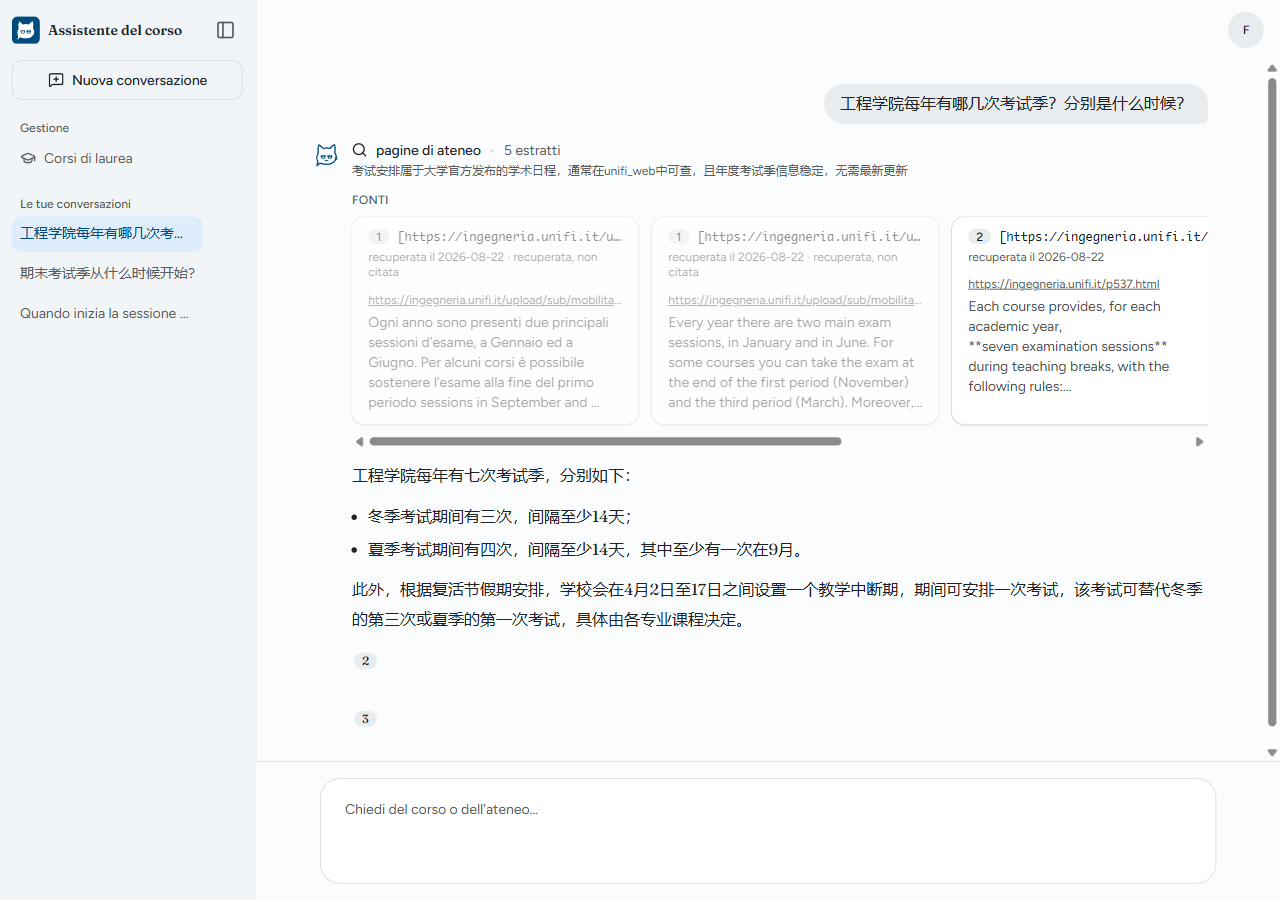
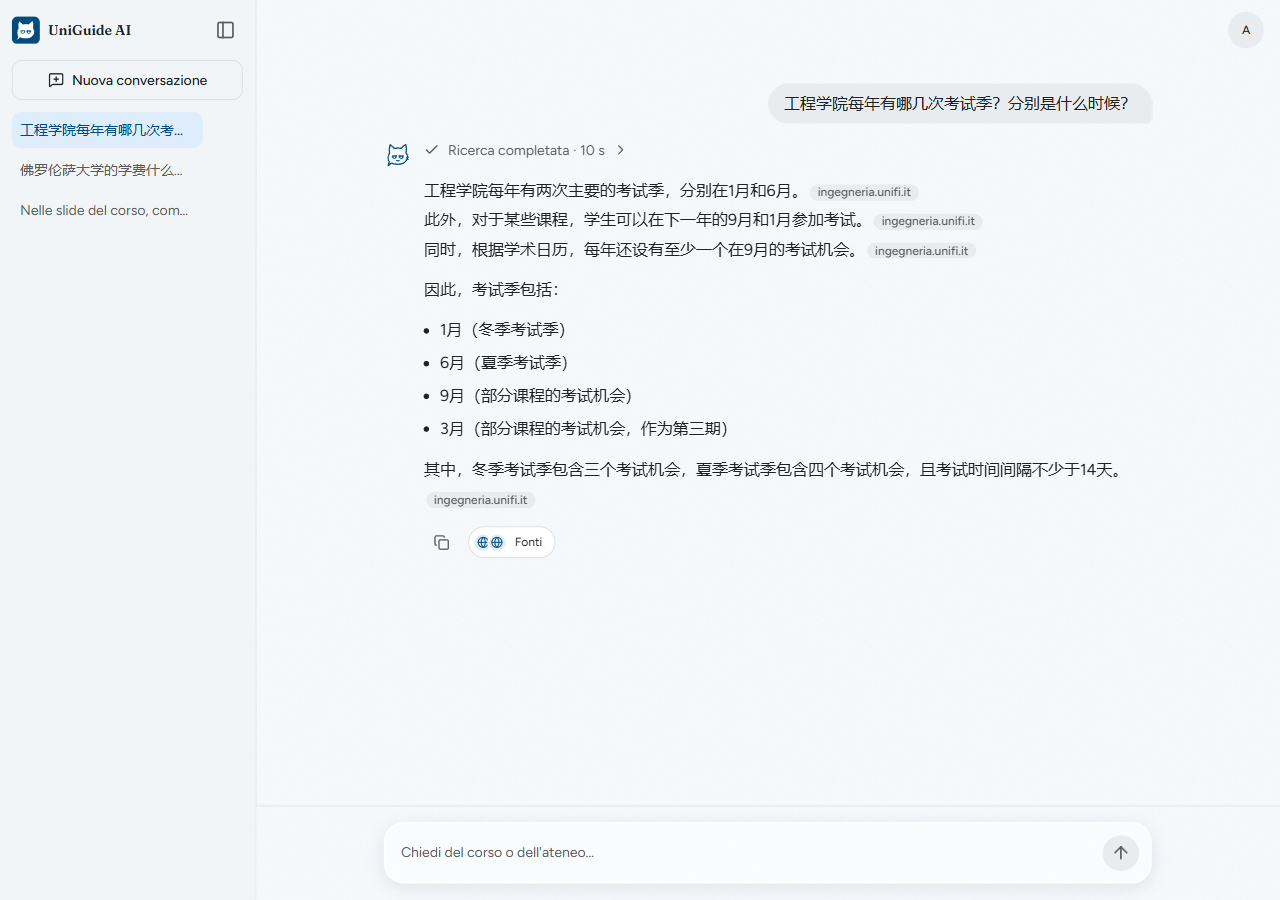
docs: the README's screenshot shows the answer area as it is
The old one showed the strip of sources above the answer, the routing
reason and the former name. The new one is a real answer at 1280 x 900,
light: a Chinese question on the exam sessions, the folded process line,
pills naming the site, the copy and sources buttons under the answer.
Saved losslessly optimised, 293,532 bytes.

diff --git a/README.md b/README.md
@@ -2,7 +2,7 @@
 
 Ask about a university course or about the campus in any language, and the answer comes back in that language, citing the slide or web page it was drawn from, even when the material is in another language: an English question over the university's Italian web pages, an Italian one over English slides. Retrieval-augmented generation over open-weights models (the Qwen family), with a Django + React website in front; generating or grading exercises is ⛔ out of scope.
 
-![A question asked in Chinese about the exam sessions, answered in Chinese from the university's Italian and English web pages, with the excerpts it drew on shown above the answer](.github/assets/chat.png)
+![A question asked in Chinese about the exam sessions, answered in Chinese from the School of Engineering's Italian and English documents, under one folded line saying the search took 10 seconds, each claim followed by a pill naming the site it came from, and a copy button and a sources button under the answer](.github/assets/chat.png)
 
 Bachelor's thesis in Information Engineering at the University of Florence, supervised by Prof. Marco Bertini. MIT licence.
 
